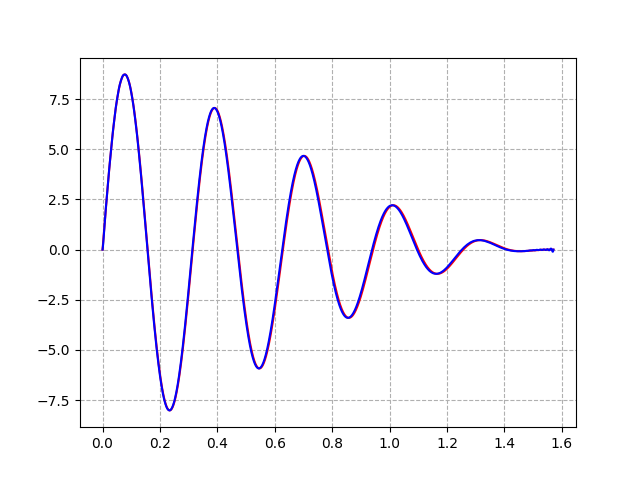
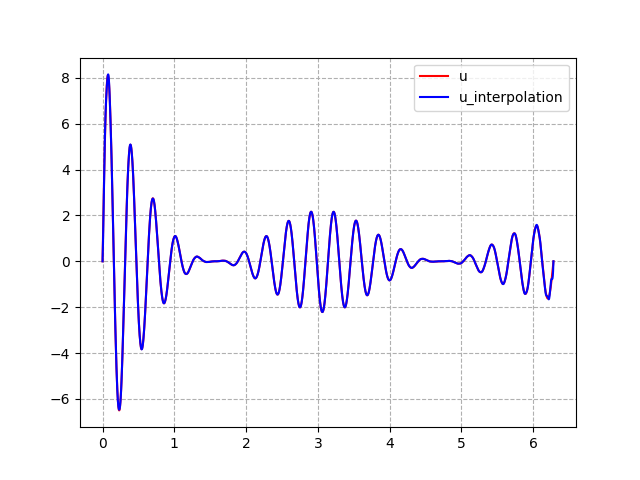
update

diff --git a/_posts/2022-4-9-fourier_transform.md b/_posts/2022-4-9-fourier_transform.md
@@ -81,7 +81,7 @@ $$
 \boldsymbol{E\hat u = u}
 $$
 
-其中 $$\boldsymbol{\hat u}$$ 可以看作是 $$N[c_{-N}, \cdots, c_{N-1}]$$ 的近似.
+其中 $$\boldsymbol{\hat u}$$ 可以看作是 $$2N[c_{-N}, \cdots, c_{N-1}]$$ 的近似.
 所以
 
 $$
@@ -109,12 +109,14 @@ $$\mathrm{fft}$$ 算法实现傅里叶插值.
 import scipy.fft as fft
 import numpy as np
 import matplotlib.pyplot as plt
+import sys
 
 def ff(x):
     """@
     @brief R -> R
     """
-    return (3+x)**2*np.sin(x)*np.cos(x)**2/(x+1)
+    return (3+x)**2*np.sin(x*20)*np.cos(x)**2/(x+1)**2
+
 
 #插值基函数
 def basis(x, N, l):
@@ -136,26 +138,37 @@ def fourier_interpolation(f, l, N):
     @param l : 定义域为 [0, l]
     @param N : 基函数的个数 2N
     """
-    x = np.linspace(0, l, 2*N)
+    x = np.linspace(0, l, 2*N, endpoint=False)
     fval = f(x)
     hfval = fft.fft(fval)
+    #hfval = dft(x, fval)
     def fourier_function(x):
         bval = basis(x, N, l)
         return bval@hfval/(2*N)
     return fourier_function
 
-l = np.pi/2
-N = 64
+def dft(x, fval):
+    """
+    @param dft 算法
+    """
+    x = x[:, None]@(np.r_[np.arange(N), -np.arange(1, N+1)[::-1]][None, :])
+    om = 2*np.pi/l
+    val = np.exp(-om*1j*x).T@fval
+    return val 
+
+
+l = 2*np.pi
+N = int(sys.argv[1])
 g = fourier_interpolation(ff, l, N)
 
-X = np.linspace(0, l, 1000)
-XX = np.linspace(0, l, 120)
+X = np.linspace(0, l, 10000)
 ffval = ff(X)
-gval = g(XX)
+gval = g(X)
 
 plt.grid(ls='--')
-plt.plot(X, ffval, 'b')
-plt.plot(XX, gval, 'x', c = 'r')
+plt.plot(X, ffval, c = 'r')
+plt.plot(X, gval, 'b')
+plt.legend(['u', 'u_interpolation'])
 plt.show()
 
 ```
